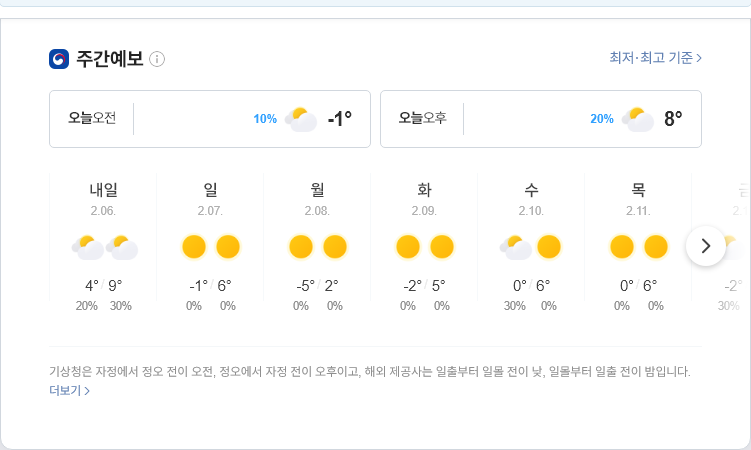
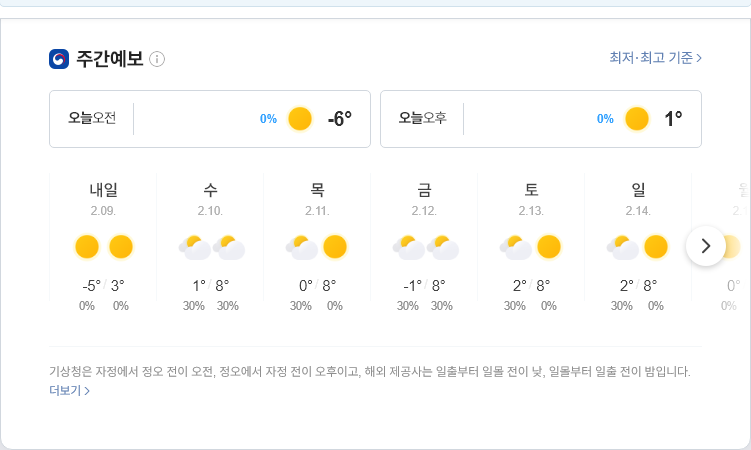
update result

diff --git a/README.md b/README.md
@@ -1,5 +1,5 @@
-##  2021-02-05 16:03:08   금요일 
-##### 날씨   -   어제보다 6° 높아요구름많음  
+##  2021-02-08 05:54:39   월요일 
+##### 날씨   -   어제보다 6° 낮아요맑음  
 <center><img src="../img/naver_weather_week.png"></center>
 ----
 ----
@@ -13,19 +13,19 @@
 ##### 세계
 <table border="1" bordercolor="blue" align = "center" >
 <tr align = "right" > <td>Item</td><td>Point</td><td>Diff</td><td>Rate</td><td>Buy</td><td>Sell</td><td>...</td>  </tr>
-<tr align = "right" > <td>DOW</td><td>31,055.86</td><td>332.26</td><td><font size="3" color="red" >1.08%</font></td><td><font size="3" color="black">0</font></td><td><font size="3" color="black">0</font></td><td>0</td>  </tr>
-<tr align = "right" > <td>NASDAQ</td><td>13,777.74</td><td>167.2</td><td><font size="3" color="red" >1.23%</font></td><td><font size="3" color="black">0</font></td><td><font size="3" color="black">0</font></td><td>0</td>  </tr>
-<tr align = "right" > <td>S&P</td><td>3,871.74</td><td>41.57</td><td><font size="3" color="red" >1.09%</font></td><td><font size="3" color="black">0</font></td><td><font size="3" color="black">0</font></td><td>0</td>  </tr>
-<tr align = "right" > <td>SHANHAI</td><td>3,495.28</td><td>-6.58</td><td><font size="3" color="blue" >-0.19%</font></td><td><font size="3" color="black">0</font></td><td><font size="3" color="black">0</font></td><td>0</td>  </tr>
-<tr align = "right" > <td>INDIA</td><td>50,917.58</td><td>303.29</td><td><font size="3" color="red" >0.6%</font></td><td><font size="3" color="black">0</font></td><td><font size="3" color="black">0</font></td><td>0</td>  </tr>
+<tr align = "right" > <td>DOW</td><td>31,148.24</td><td>92.38</td><td><font size="3" color="red" >0.3%</font></td><td><font size="3" color="black">0</font></td><td><font size="3" color="black">0</font></td><td>0</td>  </tr>
+<tr align = "right" > <td>NASDAQ</td><td>13,856.3</td><td>78.56</td><td><font size="3" color="red" >0.57%</font></td><td><font size="3" color="black">0</font></td><td><font size="3" color="black">0</font></td><td>0</td>  </tr>
+<tr align = "right" > <td>S&P</td><td>3,886.83</td><td>15.09</td><td><font size="3" color="red" >0.39%</font></td><td><font size="3" color="black">0</font></td><td><font size="3" color="black">0</font></td><td>0</td>  </tr>
+<tr align = "right" > <td>SHANHAI</td><td>3,496.33</td><td>-5.53</td><td><font size="3" color="blue" >-0.16%</font></td><td><font size="3" color="black">0</font></td><td><font size="3" color="black">0</font></td><td>0</td>  </tr>
+<tr align = "right" > <td>INDIA</td><td>50,731.63</td><td>117.34</td><td><font size="3" color="red" >0.23%</font></td><td><font size="3" color="black">0</font></td><td><font size="3" color="black">0</font></td><td>0</td>  </tr>
 </table>
 ----
 ##### 시장
 <table border="1" bordercolor="blue" align = "center" >
 <tr align = "right" > <td>Item</td><td>Price</td><td>Diff</td><td>Rate</td><td>Buy</td><td>Sell</td><td>...</td>  </tr>
-<tr align = "right" > <td>USD</td><td>1,124.0</td><td>6.0</td><td><font size="3" color="red">0.54%</font></td><td><font size="3" color="black">1,110</font></td><td><font size="3" color="black">0</font></td><td>0</td>  </tr>
-<tr align = "right" > <td>WTI</td><td>56.23</td><td>0.54</td><td><font size="3" color="red">0.96%</font></td><td><font size="3" color="black">29.0</font></td><td><font size="3" color="black">0</font></td><td>0</td>  </tr>
-<tr align = "right" > <td>GOLD</td><td>1,788.0</td><td>-43.3</td><td><font size="3" color="blue">-2.36%</font></td><td><font size="3" color="black">0</font></td><td><font size="3" color="black">0</font></td><td>0</td>  </tr>
+<tr align = "right" > <td>USD</td><td>1,123.0</td><td>5.0</td><td><font size="3" color="red">0.45%</font></td><td><font size="3" color="black">1,110</font></td><td><font size="3" color="black">0</font></td><td>0</td>  </tr>
+<tr align = "right" > <td>WTI</td><td>56.85</td><td>0.62</td><td><font size="3" color="red">1.1%</font></td><td><font size="3" color="black">29.0</font></td><td><font size="3" color="black">0</font></td><td>0</td>  </tr>
+<tr align = "right" > <td>GOLD</td><td>1,810.0</td><td>22.0</td><td><font size="3" color="red">1.22%</font></td><td><font size="3" color="black">0</font></td><td><font size="3" color="black">0</font></td><td>0</td>  </tr>
 </table>
 ----
 ##### 주가
